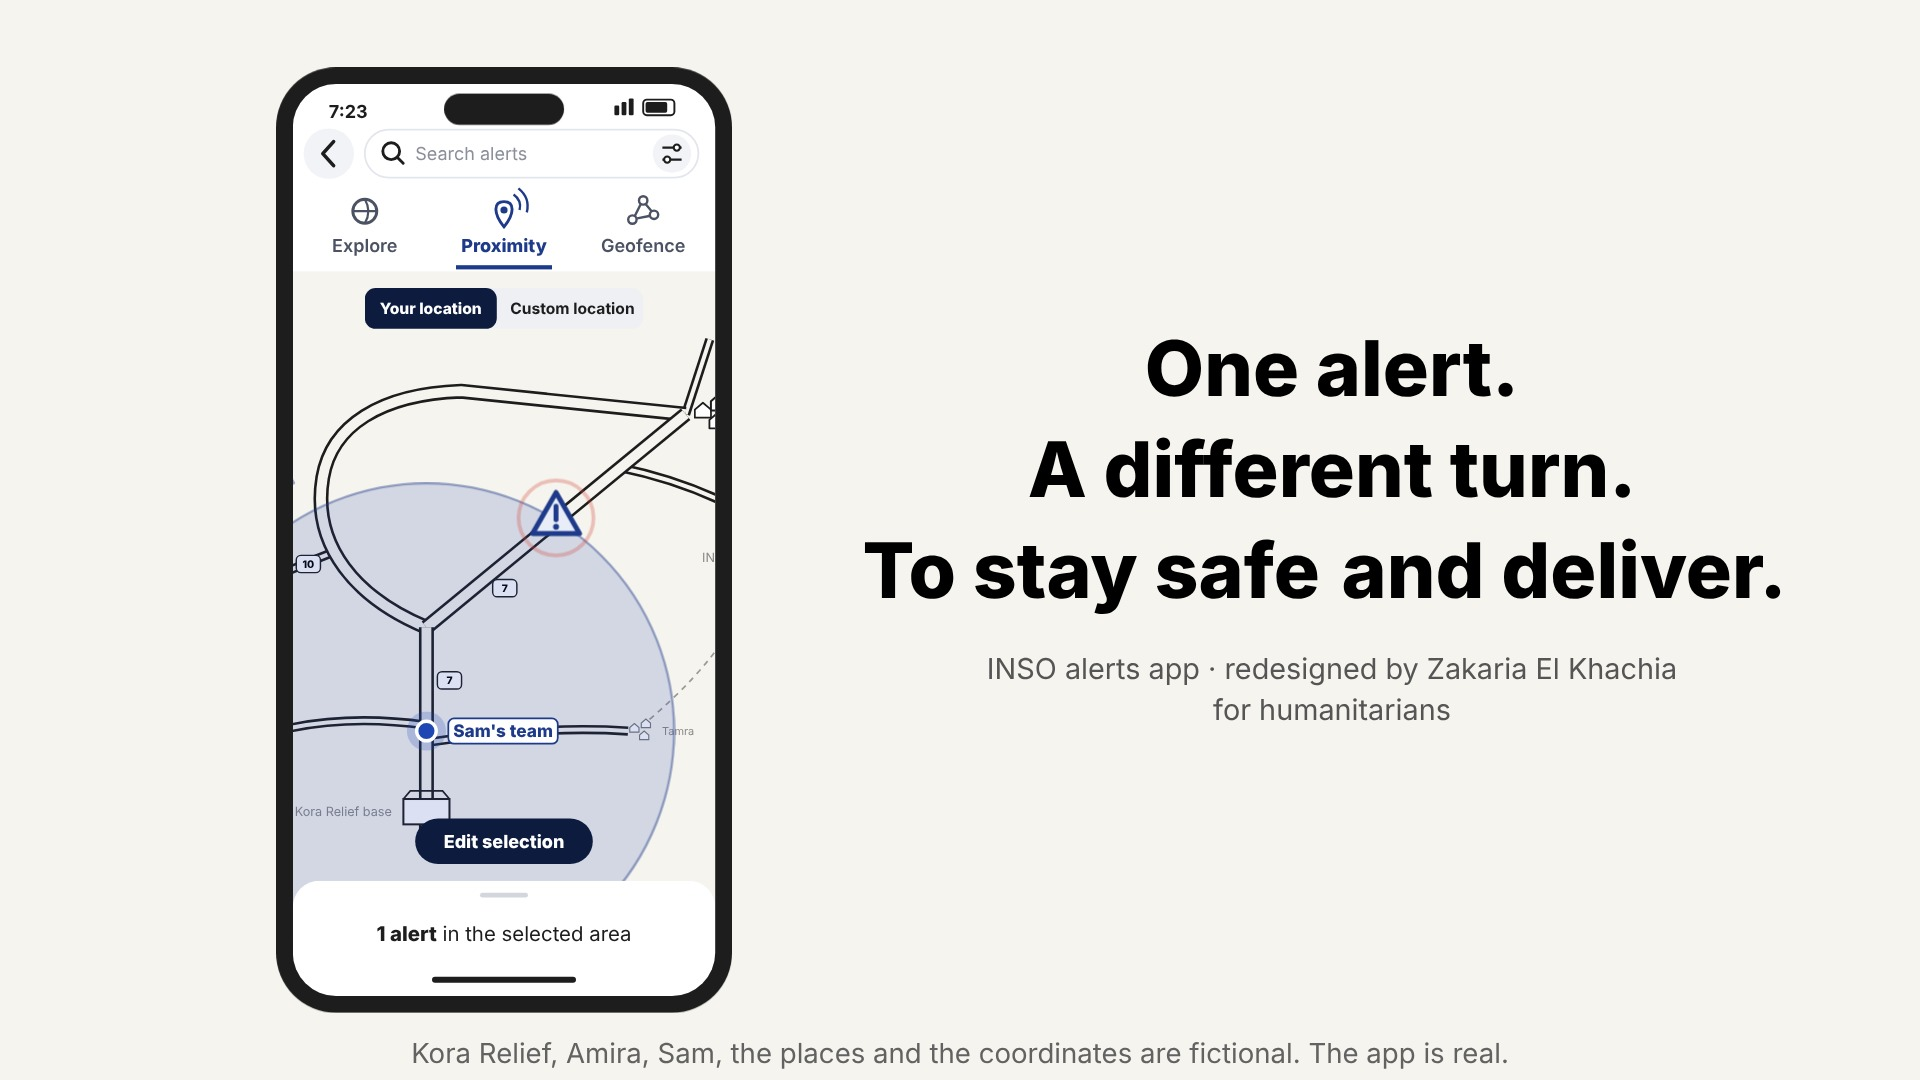
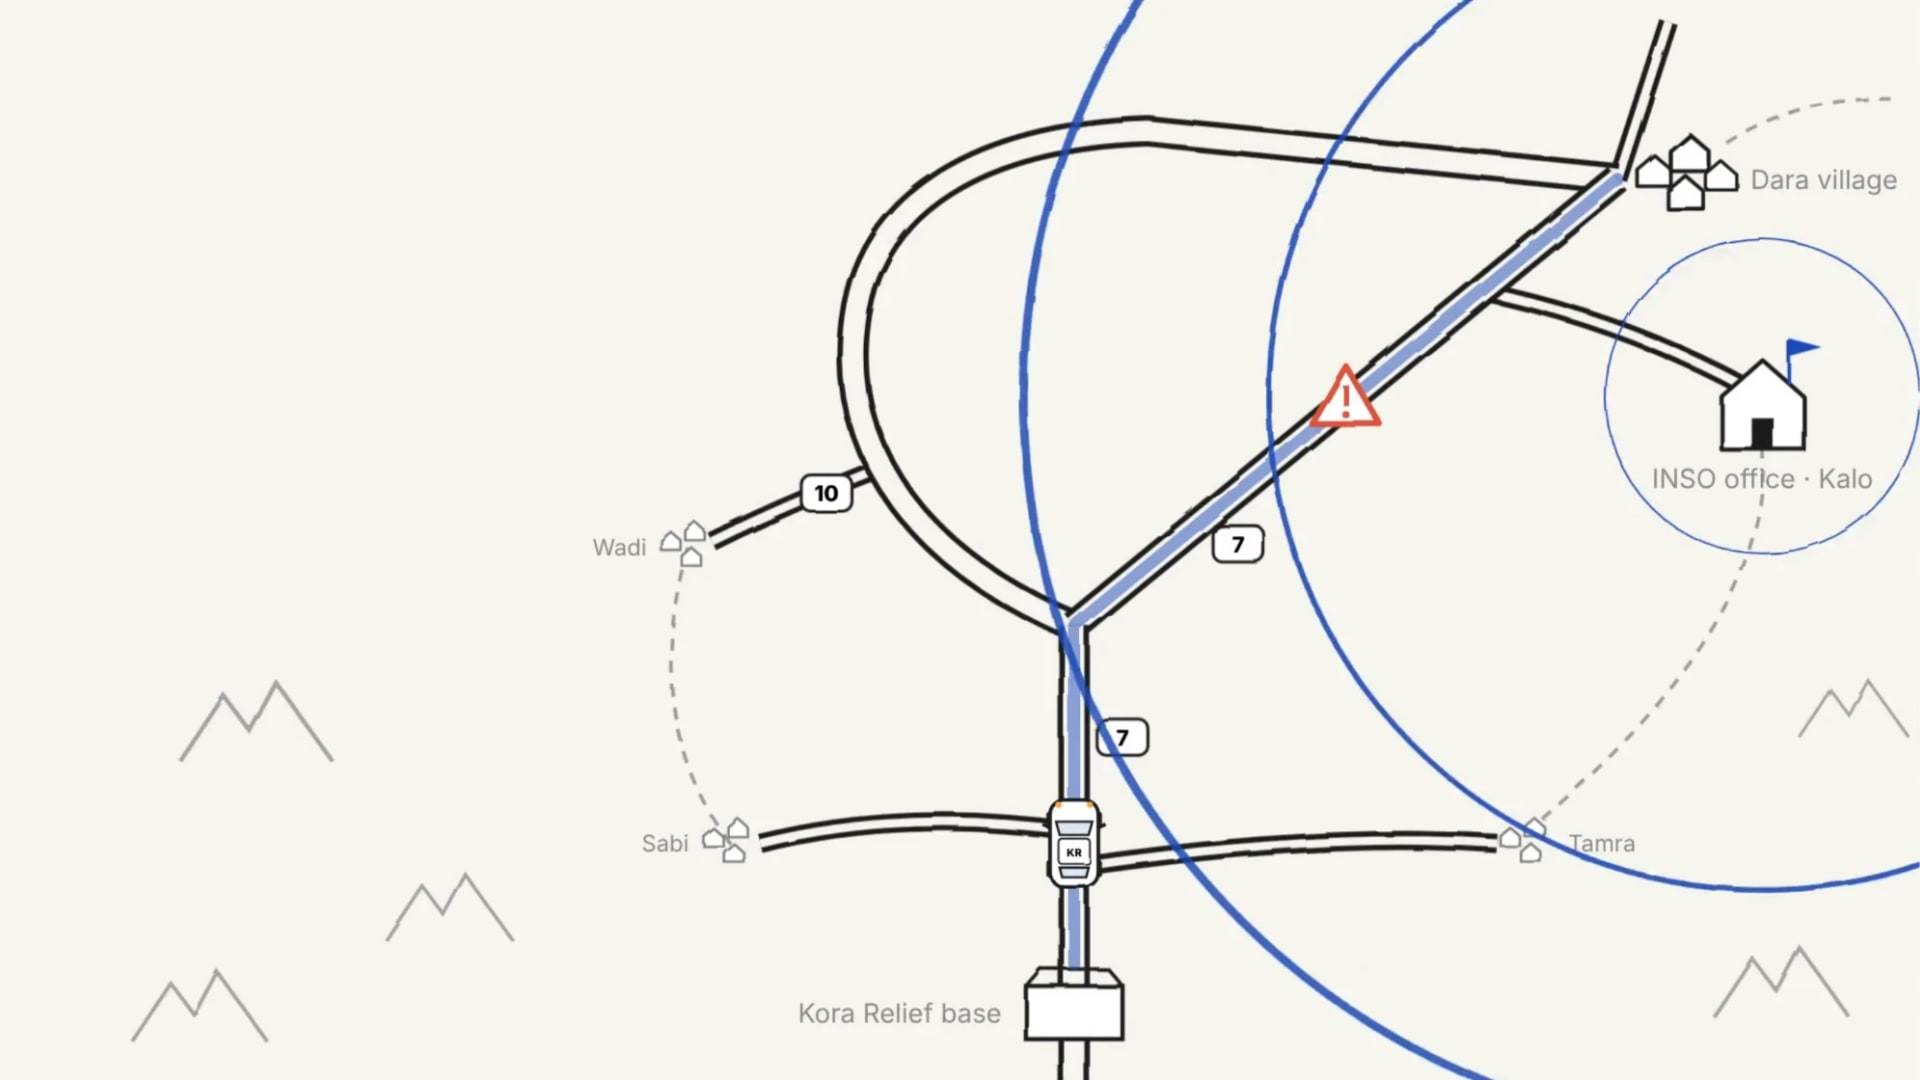
Video test: teaser starts at the middle of the screen with the map scene as poster; the short INSO case gets the one-minute story as its cover behind a play button (map poster, never autoplays); the test card opens the short case; videos behind a play button are left out of the in-view autoplay

diff --git a/src/styles/case-a.css b/src/styles/case-a.css
@@ -54,8 +54,6 @@
 /* ---------- Story ---------- */
 .a-story h2 { font-size: clamp(16px, calc(16px + 8 * (100vw - 768px) / 512), 24px); scroll-margin-top: 32px; }
 :is(.a-story > article, .a-story) > h2:first-child { margin-top: 0; } /* half the space between the facts/numbers and the first section */
-.a-story__lead > h2 { max-width: 860px; margin: 0 auto 0; } /* "The story in one minute" (test), in the reading column */
-.a-story__lead + article > h2:first-child { margin-top: var(--a-gap); }
 .a-story h2 + .is-lead { font-weight: 470; font-size: clamp(26px, calc(26px + 14 * (100vw - 768px) / 512), 40px); line-height: 1.2; }
 .a-story h2 + .is-lead strong { font-weight: 470; }
 .a-story .is-lead { font-size: clamp(22px, calc(22px + 6 * (100vw - 768px) / 512), 28px); line-height: 1.3; }
@@ -111,6 +109,7 @@
 .a-story .cs-option__title { margin: 0 0 8px; font-weight: 500; }
 .a-story .cs-option p:last-child { margin-bottom: 0; }
 /* the one-minute story: its cover with a round play button, then the video with controls */
+.a-case__hero .cs-player { max-width: none; margin: 0; } /* as the cover: the full content width */
 .cs-player__frame { position: relative; aspect-ratio: 16 / 9; background: var(--c-grey-tint); }
 .cs-player__video { position: absolute; inset: 0; width: 100%; height: 100%; }
 .cs-player__play { position: absolute; inset: 0; display: flex; align-items: flex-end; justify-content: flex-end; padding: clamp(18px, 4.5vw, 64px) clamp(14px, 5vw, 72px); border: 0; background: center / cover no-repeat; cursor: pointer; } /* the button sits low right, under the end card's title and clear of the phone */

diff --git a/src/scripts/play-in-view.ts b/src/scripts/play-in-view.ts
@@ -8,5 +8,10 @@ else {
     const v = target as HTMLVideoElement;
     if (isIntersecting) v.play().catch(() => {}); else v.pause();
   }), { threshold: 0.3 });
-  videos.forEach((v) => io.observe(v));
+  // [data-play-center]: only once the video crosses the middle of the screen (the home page's teaser)
+  const center = new IntersectionObserver((entries) => entries.forEach(({ target, isIntersecting }) => {
+    const v = target as HTMLVideoElement;
+    if (isIntersecting) v.play().catch(() => {}); else v.pause();
+  }), { rootMargin: '-45% 0px -45% 0px' });
+  videos.forEach((v) => (v.hasAttribute('data-play-center') ? center : io).observe(v));
 }

diff --git a/src/scripts/case-enhance.ts b/src/scripts/case-enhance.ts
@@ -44,7 +44,7 @@ if (body) {
   body.classList.add('is-enhanced');
 
   const reduce = window.matchMedia('(prefers-reduced-motion: reduce)').matches;
-  const videos = [...body.querySelectorAll<HTMLVideoElement>('video')];
+  const videos = [...body.querySelectorAll<HTMLVideoElement>('video:not(.cs-player__video)')]; // a video behind a play button waits for it
   videos.forEach((v) => { v.autoplay = false; v.pause(); v.preload = 'none'; });
   if (reduce) videos.forEach((v) => { v.controls = true; v.preload = 'metadata'; });
   else {
